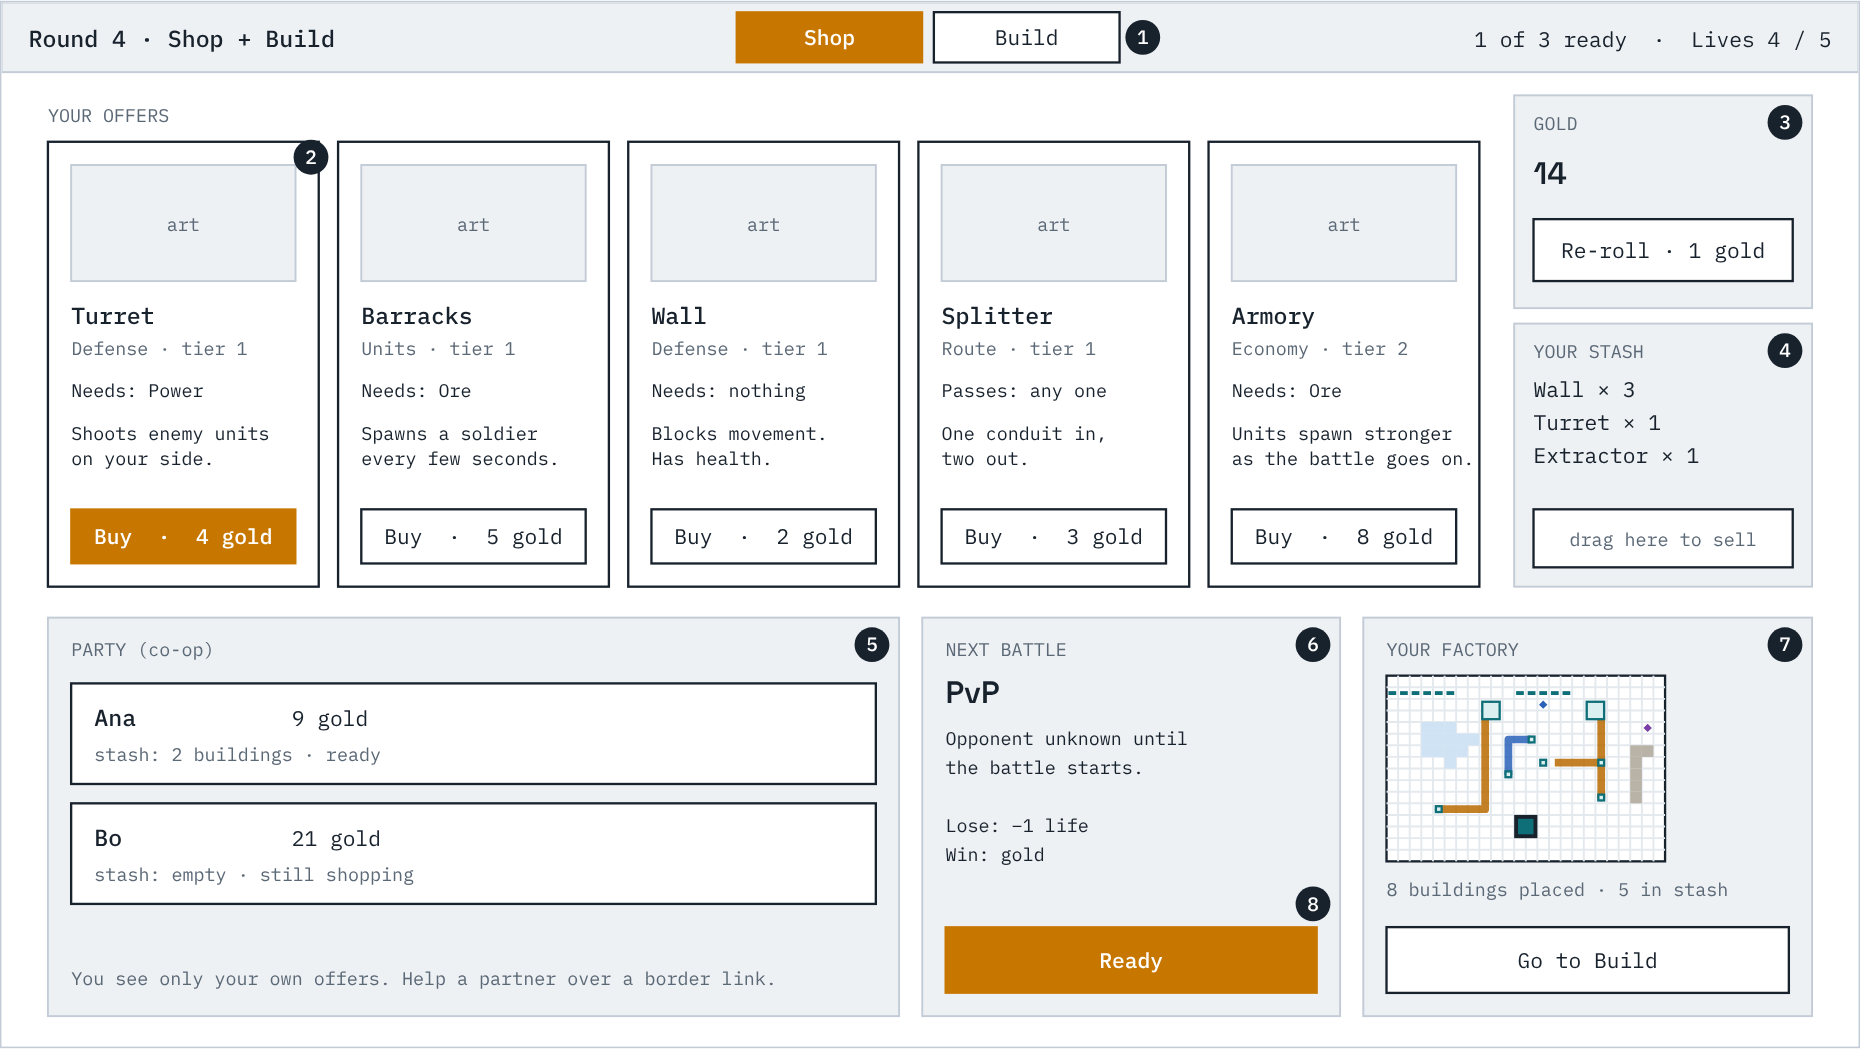
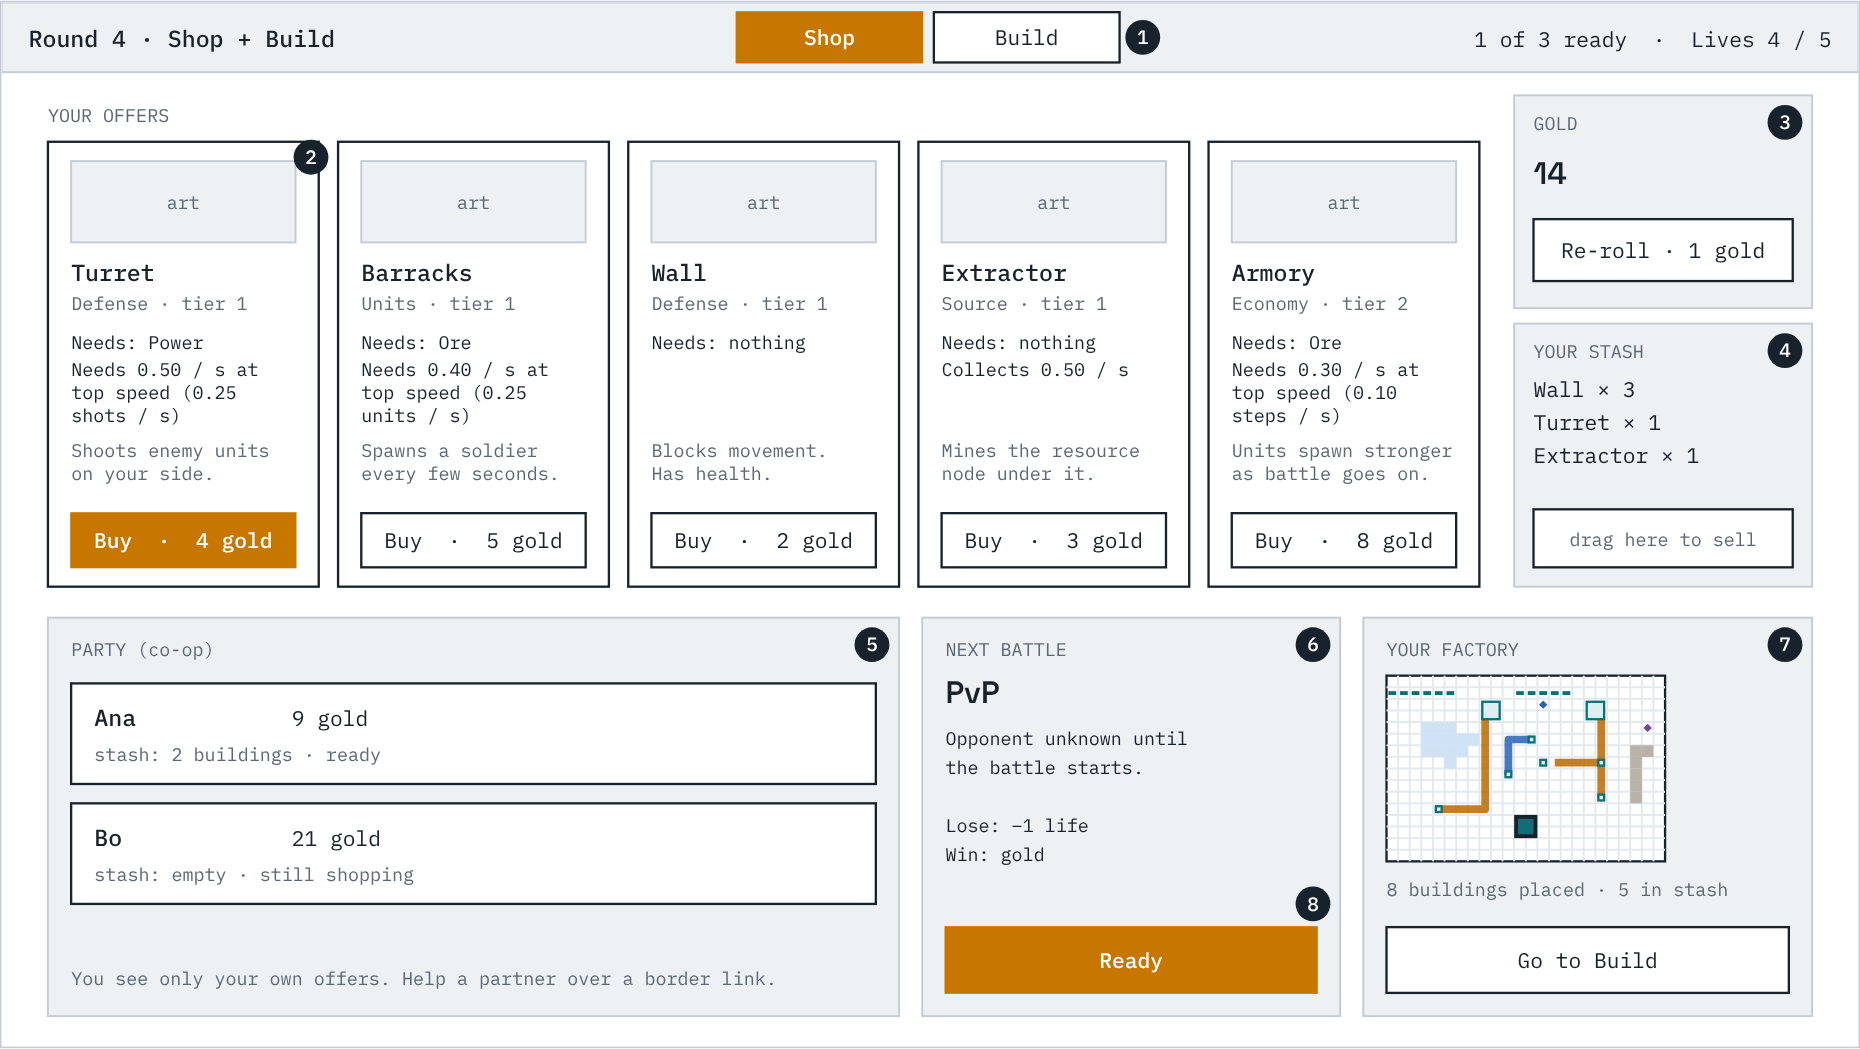
#142: Shop and Build wireframes show need per second, border links, owner tags and the LOW marker (#212)
screens.html: shop cards carry the need or collect rate per second; the Build wireframe gains the Border links panel, border spots with a dimmed neighbour half, owner tags, the LOW marker, the "needs, gets" inspector sample and the per-partner problems line. 3-shop.png and 4-build.png are redrawn from it, and both READMEs describe the two screens as they are now.

Part of #142.

diff --git a/docs/wireframes/screens.html b/docs/wireframes/screens.html
@@ -74,6 +74,8 @@ svg text { font-family: var(--font-mono); fill: var(--ink); white-space: pre; }
 .u-a { fill: var(--ally); } .u-e { fill: var(--enemy); } .u-n { fill: var(--neutral); }
 .hp { fill: var(--line); } .hp-a { fill: var(--ally); } .hp-e { fill: var(--enemy); }
 .mark { fill: var(--ink); } .mark-t { fill: var(--sheet); font-size: 10px; font-weight: 500; }
+.tag { font-size: 7px; font-weight: 500; } .spot { fill: var(--accent); stroke: var(--ink); stroke-width: 1; }
+.low { fill: none; stroke: var(--enemy); stroke-width: 2.5; stroke-dasharray: 3 3; } .lowt { font-size: 8px; font-weight: 500; fill: var(--enemy); }
 .sel { fill: none; stroke: var(--accent); stroke-width: 2.5; }
 .chart-a { fill: none; stroke: var(--ally); stroke-width: 2; } .chart-e { fill: none; stroke: var(--enemy); stroke-width: 2; }
 .card { fill: var(--sheet); stroke: var(--ink); stroke-width: 1.2; } .card.pick { stroke: var(--accent); stroke-width: 3; }
@@ -136,7 +138,7 @@ svg text { font-family: var(--font-mono); fill: var(--ink); white-space: pre; }
     <div class="sheet"><svg id="s-shop" viewBox="0 0 960 540" role="img" aria-label="Shop screen wireframe: five building offers, gold and re-roll, the player's stash, teammates, and a small view of the board."></svg></div>
     <ol class="notes">
       <li>Tabs for the two halves of this step.</li>
-      <li>Your offers. A card shows the kind, what it needs, what it does, and its price.</li>
+      <li>Your offers. A card shows the kind, what it needs, its rate per second (a consumer's need at top speed, an extractor's collect rate), what it does, and its price.</li>
       <li>Gold buys buildings and re-rolls, nothing else.</li>
       <li>Your stash: buildings you own that are not on the board. Drag here to sell.</li>
       <li>Teammates' gold and stash, for information only. You do not see their offers. Hidden in solo.</li>
@@ -148,20 +150,22 @@ svg text { font-family: var(--font-mono); fill: var(--ink); white-space: pre; }
 
   <section>
     <h2>4. Build</h2>
-    <p>Where the factory is laid out. Everything except the Core can be moved, and conduits are free. In co-op every player edits this same board at once.</p>
+    <p>Where the factory is laid out. Everything except the Core can be moved, and conduits are free. In co-op every player edits at the same time, each in their own plot; neighbouring plots are shown but cannot be edited.</p>
     <div class="sheet"><svg id="s-build" class="big" viewBox="0 0 1280 720" role="img" aria-label="Build screen wireframe: the board across the top with its front edge along the top, room for other players' plots on either side, and a dock along the bottom with stash, tools, inspector, overlays, and party panel."></svg></div>
     <ol class="notes">
       <li>Stash. Drag a building onto the board to place it; placing is free.</li>
       <li>Tools. Conduit is always available and unlimited. Rotate turns the selected building. Undo covers layout changes only, never buying, selling, or re-rolling.</li>
       <li>The board. Lakes and cliffs cannot be built on. Extractors only go on resource nodes.</li>
-      <li>Conduits, one resource each, coloured by resource. They cannot cross; the splitter is what lets one line feed two buildings.</li>
+      <li>Conduits, one resource each, coloured by resource. They cannot cross; the splitter is what lets one line feed two buildings. A conduit drawn to a border spot on the plot edge joins a neighbour's conduit at the same spot; the neighbour's half is drawn dimmed. Buildings carry their owner's tag (P1, P2), and an under-supplied consumer is marked LOW.</li>
       <li>The Core. Placed once at the start of the run; it has no move handle.</li>
       <li>The front edge, along the top. Enemy units enter along it.</li>
       <li>Preview of the routes enemy units would take to the Core with this layout.</li>
-      <li>Inspector for the selected building: what it needs, what it is getting, what it produces.</li>
-      <li>Overlays and problems: a dry run of resource flow, the enemy-path preview, and anything unconnected.</li>
+      <li>Inspector for the selected building: what it needs per second, what it is getting, and whether it is under-supplied.</li>
+      <li>Overlays and problems: a dry run of resource flow, the enemy-path preview, and problems. Your own buildings are listed one by one, and each partner gets one summary line.</li>
       <li>Party panel: who is editing where, pings, and the Ready button. The party moves on when everyone is ready.</li>
       <li>In co-op each extra player adds a plot to the side. A four-player board still fits the width of a 1080p screen, and everything below the board stays free for panels.</li>
+      <li>Border links: each of your own halves with its state, what it carries, and a Remove my half button.</li>
+      <li>A border spot, where a conduit crosses into the neighbour's plot, with the neighbour's dimmed half beside it.</li>
     </ol>
   </section>
 
@@ -403,20 +407,21 @@ svg text { font-family: var(--font-mono); fill: var(--ink); white-space: pre; }
     btn(s, 380, 5, 96, 26, "Shop", true); btn(s, 482, 5, 96, 26, "Build");
     T(s, 24, 62, "YOUR OFFERS", "ts tm");
     var offers = [
-      ["Turret", "Defense · tier 1", "Needs: Power", ["Shoots enemy units", "on your side."], "4"],
-      ["Barracks", "Units · tier 1", "Needs: Ore", ["Spawns a soldier", "every few seconds."], "5"],
-      ["Wall", "Defense · tier 1", "Needs: nothing", ["Blocks movement.", "Has health."], "2"],
-      ["Splitter", "Route · tier 1", "Passes: any one", ["One conduit in,", "two out."], "3"],
-      ["Armory", "Economy · tier 2", "Needs: Ore", ["Units spawn stronger", "as the battle goes on."], "8"]
+      ["Turret", "Defense · tier 1", "Needs: Power", ["Needs 0.50 / s at", "top speed (0.25", "shots / s)"], ["Shoots enemy units", "on your side."], "4"],
+      ["Barracks", "Units · tier 1", "Needs: Ore", ["Needs 0.40 / s at", "top speed (0.25", "units / s)"], ["Spawns a soldier", "every few seconds."], "5"],
+      ["Wall", "Defense · tier 1", "Needs: nothing", [], ["Blocks movement.", "Has health."], "2"],
+      ["Extractor", "Source · tier 1", "Needs: nothing", ["Collects 0.50 / s"], ["Mines the resource", "node under it."], "3"],
+      ["Armory", "Economy · tier 2", "Needs: Ore", ["Needs 0.30 / s at", "top speed (0.10", "steps / s)"], ["Units spawn stronger", "as battle goes on."], "8"]
     ];
     offers.forEach(function (o, i) {
       var x = 24 + i * 150, y = 72, w = 140, h = 230;
       R(s, x, y, w, h, "card");
-      R(s, x + 12, y + 12, w - 24, 60, "panel"); T(s, x + w / 2, y + 46, "art", "ts tm", "middle");
-      T(s, x + 12, y + 94, o[0], "th"); T(s, x + 12, y + 110, o[1], "ts tm");
-      T(s, x + 12, y + 132, o[2], "ts");
-      lines(s, x + 12, y + 154, o[3], "ts", 13);
-      btn(s, x + 12, y + 190, w - 24, 28, "Buy  ·  " + o[4] + " gold", i === 0);
+      R(s, x + 12, y + 10, w - 24, 42, "panel"); T(s, x + w / 2, y + 35, "art", "ts tm", "middle");
+      T(s, x + 12, y + 72, o[0], "th"); T(s, x + 12, y + 87, o[1], "ts tm");
+      T(s, x + 12, y + 107, o[2], "ts");
+      lines(s, x + 12, y + 121, o[3], "ts", 12);
+      lines(s, x + 12, y + 163, o[4], "ts tm", 12);
+      btn(s, x + 12, y + 192, w - 24, 28, "Buy  ·  " + o[5] + " gold", i === 0);
     });
     var px = 782, pw = 154;
     R(s, px, 48, pw, 110, "panel"); T(s, px + 10, 66, "GOLD", "ts tm"); T(s, px + 10, 94, "14", "tb");
@@ -453,6 +458,21 @@ svg text { font-family: var(--font-mono); fill: var(--ink); white-space: pre; }
     R(s, 16, by, 368, bh, "plot"); T(s, 200, by + bh / 2, "co-op: another player’s plot", "ts tm", "middle"); T(s, 200, by + bh / 2 + 18, "joins the board here", "ts tm", "middle");
     R(s, 896, by, 368, bh, "plot"); T(s, 1080, by + bh / 2, "co-op: another player’s plot", "ts tm", "middle"); T(s, 1080, by + bh / 2 + 18, "joins the board here", "ts tm", "middle");
     board(s, bx, by, S, mine, false);
+    // owner tags: every building carries the owner's P-number, not colour only
+    mine.bld.forEach(function (b) { if (b[4] === "Bk") T(s, bx + (b[1] + b[3]) * S - 2, by + (W - b[0]) * S + 14, "P1", "tag", "end"); else T(s, bx + b[1] * S + 2, by + (W - b[0] - b[2]) * S - 2, "P1", "tag"); });
+    // border links: spots on the plot edge, my own halves solid, the neighbour's half dimmed
+    function edge(fr, dp) { return [bx + fr * S, by + (W - dp - 0.5) * S]; }
+    function half(res, pts) { el(s, "polyline", { class: "cond c-" + res, points: pts.map(function (q) { return q.join(","); }).join(" ") }); }
+    var l1 = edge(0, 6), r1 = edge(24, 12);
+    half("ore", [l1, [bx + 12.5 * S, l1[1]], [bx + 12.5 * S, by + (W - 8 - 0.5) * S]]);
+    half("power", [r1, [bx + 19 * S, r1[1]]]);
+    var nb = el(s, "g", { opacity: 0.35 });
+    el(nb, "polyline", { class: "cond c-ore", points: (bx - 74) + "," + l1[1] + " " + bx + "," + l1[1] });
+    R(nb, bx - 96, l1[1] - 11, 22, 22, "bld"); T(nb, bx - 85, l1[1] + 3, "Ex", "bl", "middle"); T(nb, bx - 94, l1[1] - 13, "P2", "tag");
+    [l1, r1].forEach(function (q) { R(s, q[0] - 5, q[1] - 5, 10, 10, "spot"); });
+    // under-supplied consumer: dashed warning frame and LOW marker (the Barracks, selected below)
+    el(s, "rect", { x: bx + 8 * S - 6, y: by + 2 * S - 6, width: 2 * S + 12, height: 2 * S + 12, class: "low" });
+    T(s, bx + 10 * S - 4, by + 2 * S + 11, "LOW", "lowt", "end");
     function path(pts) { el(s, "polyline", { class: "path", points: pts.map(function (q) { return (bx + q[1] * S) + "," + (by + (W - q[0]) * S); }).join(" ") }); }
     path([[16,20],[10.5,20],[10.5,16.5],[4.5,16.5],[4.5,12.5],[4,12.5]]);
     path([[16,9.5],[14.5,9.5],[14.5,10.5],[11.5,10.5],[11.5,11.5],[4,11.5]]);
@@ -466,23 +486,28 @@ svg text { font-family: var(--font-mono); fill: var(--ink); white-space: pre; }
     [["Select / move", 0], ["Conduit · free", 1], ["Rotate (R)", 0], ["Erase conduit", 0], ["To stash", 0], ["Undo", 0]].forEach(function (b, i) {
       btn(s, 28 + (i % 2) * 152, 600 + Math.floor(i / 2) * 35, 144, 29, b[0], !!b[1]);
     });
-    // dock B: inspector
-    R(s, 352, 404, 448, 304, "panel"); T(s, 364, 426, "SELECTED", "ts tm");
-    T(s, 364, 458, "Barracks", "tb"); T(s, 474, 458, "Units · tier 1 · bought by You", "ts tm");
-    lines(s, 364, 492, ["Needs      Ore 2.0 / sec", "Receiving  Ore 1.5 / sec", "           extractor is 12 cells away", "Produces   1 soldier / 5.3 s (4.0 s at full)", "Health     120"], "t", 24);
-    btn(s, 364, 664, 120, 30, "Rotate"); btn(s, 492, 664, 150, 30, "To stash"); btn(s, 650, 664, 138, 30, "Sell in Shop");
+    // dock B: inspector, then Border links
+    R(s, 352, 404, 448, 198, "panel"); T(s, 364, 426, "SELECTED", "ts tm");
+    T(s, 364, 452, "Barracks", "tb"); T(s, 474, 452, "Units · tier 1 · bought by You", "ts tm");
+    lines(s, 364, 476, ["Top speed  0.25 units / sec", "Needs      0.40 / sec at top speed", "           · UNDER-SUPPLIED: gets 0.30 / sec", "Receiving  Ore 0.30 / sec (estimate)", "Health     120"], "t", 19);
+    btn(s, 364, 566, 120, 28, "Rotate"); btn(s, 492, 566, 150, 28, "To stash"); btn(s, 650, 566, 138, 28, "Sell in Shop");
+    R(s, 352, 610, 448, 98, "panel"); T(s, 364, 628, "BORDER LINKS (co-op)", "ts tm");
+    [["Linked with Ana (receiving)", "carries Ore", 636], ["Not connected: waiting for your", "neighbour (receiving) · carries Power", 670]].forEach(function (r) {
+      R(s, 364, r[2], 424, 32, "box"); T(s, 372, r[2] + 14, r[0], "ts"); T(s, 372, r[2] + 27, r[1], "ts");
+      btn(s, 652, r[2] + 5, 130, 22, "Remove my half");
+    });
     // dock C: overlays + party
     R(s, 816, 404, 448, 156, "panel"); T(s, 828, 426, "OVERLAYS", "ts tm");
     btn(s, 828, 436, 136, 30, "Resource flow"); btn(s, 972, 436, 136, 30, "Enemy paths", true); btn(s, 1116, 436, 136, 30, "Dry run 60s");
     T(s, 828, 492, "PROBLEMS", "ts tm");
-    lines(s, 828, 512, ["⚠ Extractor in stash: 2 free nodes (Power, Flux)", "⚠ Armory is fed through a 9-cell conduit", "✓ No conduits cross"], "ts", 18);
-    R(s, 816, 568, 448, 140, "panel"); T(s, 828, 590, "PARTY (co-op) · everyone edits this board", "ts tm");
+    lines(s, 828, 512, ["⚠ Barracks gets 0.30/s of the 0.40/s it needs.", "⚠ Extractor in stash: 2 free nodes (Power, Flux)", "⚠ Ana has 2 under-supplied buildings."], "ts", 18);
+    R(s, 816, 568, 448, 140, "panel"); T(s, 828, 590, "PARTY (co-op) · each edits their own plot", "ts tm");
     lines(s, 828, 614, ["You   placing walls near the front    ready: no", "Ana   routing Power to turrets        ready: yes", "Bo    in Shop                         ready: no"], "ts", 18);
     T(s, 828, 690, "Next: PvP · opponent unknown", "ts tm");
     btn(s, 1104, 668, 148, 30, "Ready", true);
     // marks
     mark(s, 318, 420, 1, 11); mark(s, 318, 584, 2, 11); mark(s, bx + 450, by + 290, 3, 11); mark(s, bx + 150, by + 165, 4, 11); mark(s, bx + 284, by + 262, 5, 11);
-    mark(s, 790, by - 12, 6, 11); mark(s, bx + 424, by + 60, 7, 11); mark(s, 782, 420, 8, 11); mark(s, 1246, 420, 9, 11); mark(s, 1246, 584, 10, 11); mark(s, 200, by + 40, 11, 11);
+    mark(s, 790, by - 12, 6, 11); mark(s, bx + 424, by + 38, 7, 11); mark(s, 782, 420, 8, 11); mark(s, 782, 626, 12, 11); mark(s, 1246, 420, 9, 11); mark(s, 1246, 584, 10, 11); mark(s, 200, by + 40, 11, 11); mark(s, l1[0] - 14, l1[1] + 20, 13, 11);
   })();
 
   // ================= 5. MAIN MENU =================

diff --git a/docs/wireframes/README.md b/docs/wireframes/README.md
@@ -72,7 +72,7 @@ The shop always follows the event. Each player has their own offers and their ow
 ![Shop screen wireframe](3-shop.png)
 
 1. Tabs for the two halves of this step.
-2. Your offers. A card shows the kind, what it needs (which resource and how much per second), what it does, and its price.
+2. Your offers, bought for your own plot. A card shows the kind, what it needs (which resource), its rate per second (a consumer's need at top speed, an extractor's collect rate), what it does, and its price.
 3. Gold buys buildings and re-rolls, nothing else.
 4. Your stash: buildings you own that are not on the board. Drag here to sell.
 5. Teammates' gold and stash. You do not see their offers, and gold and buildings cannot be given (CP-29). Hidden in solo.
@@ -82,7 +82,7 @@ The shop always follows the event. Each player has their own offers and their ow
 
 ## 4. Build
 
-Where the factory is laid out. Everything of yours except your Core can be moved, and conduits are free. In co-op every player edits at the same time, each in their own plot; the other plots are shown but cannot be edited. (The image shows the earlier design, one shared board with one Core; it is to be redrawn.)
+Where the factory is laid out. Everything of yours except your Core can be moved, and conduits are free. In co-op every player edits at the same time, each in their own plot; the other plots are shown but cannot be edited. The image shows your own plot with its border links, owner tags and a LOW marker.
 
 ![Build screen wireframe](4-build.png)
 
@@ -95,9 +95,11 @@ Where the factory is laid out. Everything of yours except your Core can be moved
 7. Preview of the routes enemy units would take with this layout, each to the Core of the plot it enters.
 8. Inspector for the selected building: what it needs per second, what it is getting, what it produces. For a collector: its flow rate.
 9. Overlays and problems: a dry run of resource flow, the enemy-path preview, and anything unconnected.
-   In co-op, a Border links list names each of your own halves (linked, waiting for your neighbour, or cannot join), what it carries, and a Remove button. The dry-run table shows each consumer's need per second and "supplied" or "UNDER-SUPPLIED" (all inputs together).
+   Your own buildings are listed one by one, and each partner gets one summary line (for example "Ana has 2 under-supplied buildings."). The dry-run table shows each consumer's need per second and "supplied" or "UNDER-SUPPLIED" (all inputs together).
 10. Party panel: who is editing where, pings, and the Ready button. The party moves on when everyone is ready.
 11. In co-op each extra player adds a plot of their own to the side. A four-player board still fits the width of a 1080p screen, and everything below the board stays free for panels.
+12. Border links (co-op): a list of your own halves, each with its state (linked, waiting for your neighbour, or cannot join), what it carries, and a Remove my half button.
+13. A border spot on the plot edge, where your conduit meets the neighbour's. The neighbour's half is drawn dimmed beside it. Buildings carry their owner's tag (P1, P2), and a consumer that gets less than it needs is marked LOW.
 
 ## 5. Main menu
 

diff --git a/README.md b/README.md
@@ -52,6 +52,8 @@ refined and then broken down into backlog items for coding agents.
 Layout sketches of the screens of a run (menu, Core placement, PvE choice,
 battle, summary, event, shop, build, and run over) are in
 [`docs/wireframes/`](docs/wireframes/).
+The shop and build screens show your own plot, border links to a
+neighbour's plot, and the need per second of each building.
 
 ## Conventions used in the specs
 
